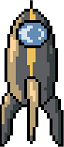
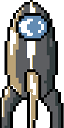
Add files via upload

diff --git a/fairydust.tsx b/fairydust.tsx
@@ -1,4 +1,4 @@
 <?xml version="1.0" encoding="UTF-8"?>
 <tileset version="1.4" tiledversion="1.4.2" name="fairydust" tilewidth="32" tileheight="32" tilecount="8" columns="2">
- <image source="fairydust.png" width="64" height="147"/>
+ <image source="fairydust.png" width="64" height="128"/>
 </tileset>
